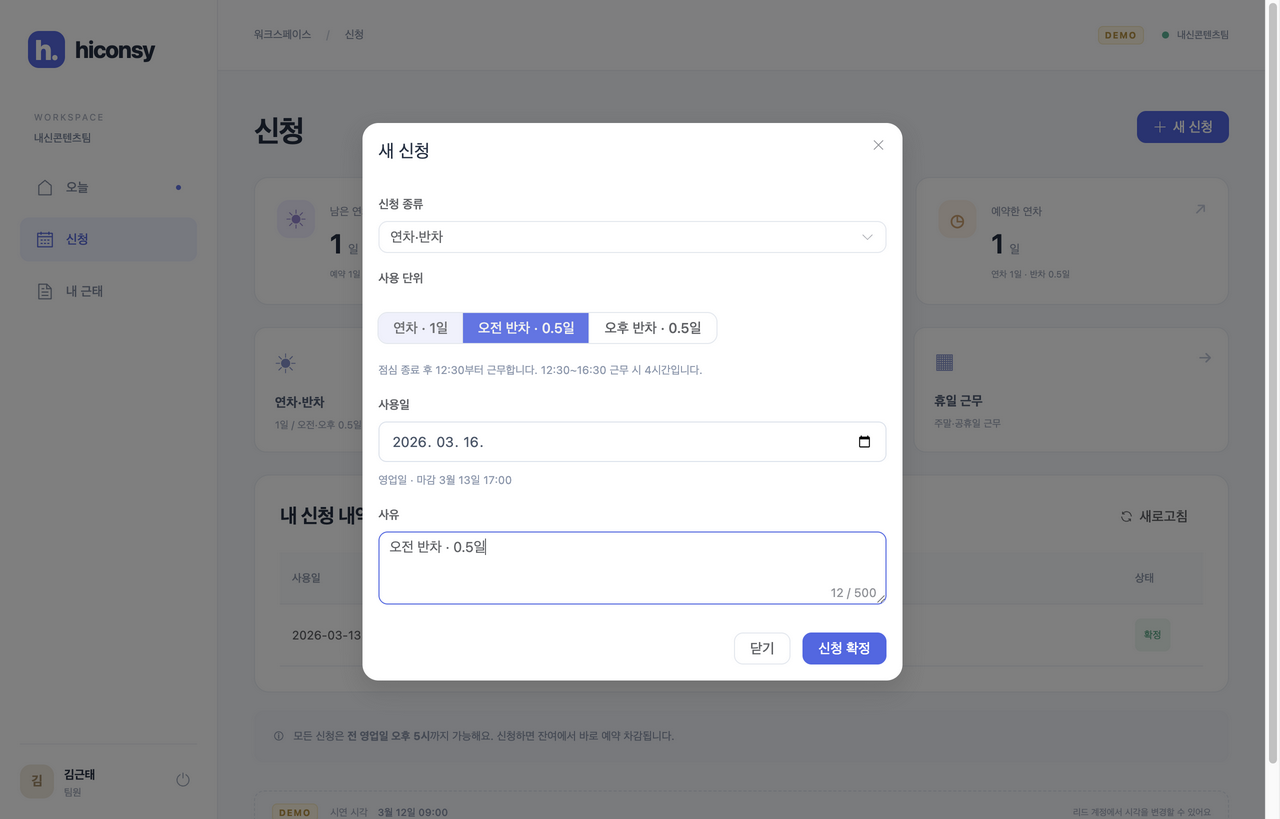
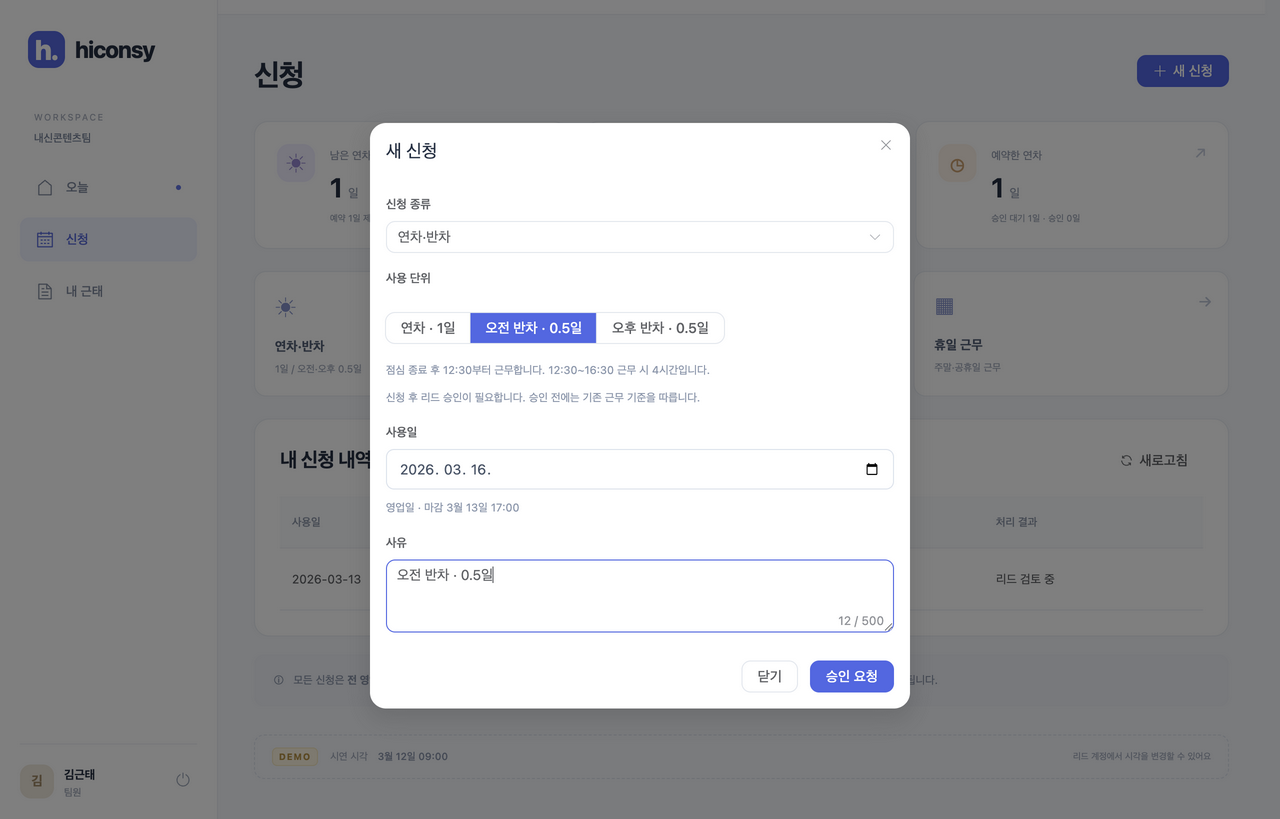
docs(T18): publish approval tests, bug reproductions and verification evidence

diff --git a/docs/testing.md b/docs/testing.md
@@ -1,0 +1,90 @@
+# 기능 테스트와 버그 점검
+
+검증일: **2026-11-03**. 대상: T17 팀원 연차·반차 승인과 T18 버그 수정.
+
+**결과: 서버 자동 테스트 32개 통과, 실제 Electron 시나리오 16개 묶음 통과, 렌더러 오류 0건.** TypeScript/Vue 빌드와 포맷 검사도 통과했다. 검증 환경은 macOS arm64, Node 24.22.2, Electron 45.2.1이다.
+
+이번 UI 검증은 빌드된 Vue 파일을 실제 Electron 창에서 실행했다. 사용 중인 개발 서버와 겹치지 않도록 테스트 API는 3101 포트·임시 SQLite로 분리했다. 기본 창과 최소 860×680 창의 승인 목록·검토 폼을 확인했으며, 주요 버튼 잘림이나 가로 넘침은 발견하지 않았다. 서버/앱 재시작도 시나리오에 포함했다.
+
+리드 승인은 **팀원 연차·오전/오후 반차**에 적용한다. 리드 본인 휴가·재택·휴일 근무는 자동 확정한다.
+
+## 검증 목록
+
+| 구분 | 동작·상태 | 확인 방법 |
+|---|---|---|
+| 팀원 신청 | 연차/오전/오후 반차를 접수하면 승인 대기, 잔여 예약 | API + 실제 Electron 신청 폼·내역 |
+| 리드 승인 | 별도 메뉴에서 미래 신청 조회, 검토·확인·승인 | API + Electron 메뉴·목록·검토창 |
+| 반려 | 빈 사유 오류, 사유 입력, 신청자에게 결과 표시·예약 반환 | API + Electron 검토창·신청 내역 |
+| 재신청 | 반려 기록 보존, 동일 날짜 새 신청·승인 | API + Electron 왕복 흐름 |
+| 잔여 | 승인 시 추가 차감 없음, 반려 한 번 반환, 만료 유지 | API/원장 검증 |
+| 권한/동시성 | 팀원 승인 API 차단, 본인 심사 차단, 두 심사 중 하나만 성공 | API |
+| 근태 연결 | 대기/반려는 휴가 적용 안 함, 승인된 반차 점심 경계 적용 | API + 오늘 화면 |
+| 예외 | 과거 사용일·이미 출근한 날 승인 차단, 반려로 정리 가능 | API + 검토창 안내 |
+| 기존 기록 | 이전 DB 신청은 승인 상태로 이관, 기록·원장 참조 보존 | 마이그레이션 테스트 |
+| 사용성 | 최소 창, 상태 식별, 필터·빈 목록·닫기·취소·오류 | Electron 기능·스크린샷 확인 |
+| 회귀 | 로그인·출퇴근·보정·팀·시연·서버/앱 재시작 | 기존 API 및 Electron 시나리오 |
+
+## 실행 명령
+
+Node 24 환경에서 실행한다. UI 테스트는 3000 포트가 비어 있어야 하며 임시 SQLite를 사용한다.
+
+```sh
+npm test
+npm run build
+npm run format:check
+npm run test:ui
+```
+
+Node 버전이 다르면 각 명령 앞에 `npx --yes --package=node@24 --package=npm@10.9.4 --`를 붙인다.
+
+## 자동 검사 결과
+
+| 검사 | 결과 | 근거 |
+|---|---|---|
+| 서버 규칙·HTTP·DB | 32/32 통과 | `src/server/tests/*.test.ts` |
+| 승인 전용 회귀 | 8/8 통과, 위 32개에 포함 | `approvals.test.ts`: 상태·원장·권한·동시 심사·재신청·만료·재시작 |
+| 반차 회귀 | 6/6 통과, 위 32개에 포함 | `half-day.test.ts`: 0.5일·점심 경계·지각/보정·기존 DB 이관 |
+| Vue/서버 타입 검사·빌드 | 통과 | `npm run build` |
+| 포맷 검사 | 통과 | `npm run format:check` |
+| macOS 패키지 생성 | 통과 | `npm run make`로 최신 ZIP 재생성. 이번 변경의 UI 검증은 아래 Electron 실행 결과 기준 |
+| 실제 Electron UI | 16개 묶음 통과, 페이지 오류 0 | [실행 결과 JSON](test-results/ui.json), `scripts/ui-smoke.mjs` |
+
+권한·동시성·만료는 HTTP/DB 테스트로 확인했다. UI의 네트워크 오류는 요청 차단으로 재현했고, 서버 종료·재시작 시나리오는 실제 NestJS 종료와 같은 SQLite 파일로의 재기동을 사용했다. 테스트 종료 시 임시 DB와 테스트 앱을 정리한다.
+
+## 발견한 문제와 수정
+
+| ID | 확인 방법 / 문제 | 수정 | 확인 결과 |
+|---|---|---|---|
+| B01 | Electron 재현: 오늘 출근해 근무 중인데 내 근태에 ‘퇴근 미기록’ 표시 | 오늘 열린 근태는 ‘근무 중’, 이전 날짜만 ‘퇴근 미기록’으로 구분 | 출근 후 내 근태 행에서 정상 표시 확인 |
+| B02 | Electron 재현: 신청 기한 조회 중 날짜를 지우면 로딩 문구가 계속 남음 | 날짜를 비울 때 로딩 해제, 이전 조회 결과 무시 | 지연 응답 중 날짜 삭제 후 로딩 해제 확인 |
+| B03 | Electron 재현: 연결 오류에서 ‘로그인으로’를 눌러도 이전 세션 토큰이 저장소에 남음 | 세션 초기화 시 토큰 제거, 초기 로그인 복원 완료 때 경로 권한 재검사 | 로그인 이동·네트워크 복구·새로고침 후 로그인 화면 유지 |
+| B04 | 코드 점검: 오전/오후 반차에도 07시·10시·16시 일반 근무 안내 | 승인된 근무 종류에 맞춰 안내 분기 | 오전 12:30 출근, 오후 11:30 퇴근 안내 확인 |
+| B05 | 코드 점검: 팀 날짜 조회의 이전 응답이 최신 결과를 덮을 수 있음 | 마지막 요청에 해당하는 응답만 반영 | 13일 요청을 지연시키고 12일 선택 후 응답 순서를 뒤집어도 12일 유지 |
+
+추가 보완: 휴가 예약·반려 반환을 원장에 구분 표시하고, 승인 상태 열을 내 신청 표 앞쪽에 배치했다. 승인 검토창은 최소 창에서 하단 버튼이 보이도록 가운데 정렬한다.
+
+## 승인·반려 수동 재현
+
+시연 DB를 초기화하려면 실행 중인 앱과 서버를 먼저 종료한 뒤 `npm run demo:reset`, `npm run dev`를 실행한다. 아래 초기 시각은 2026-03-12 09:00이다.
+
+1. `kim` / `demo1234`로 로그인한다. 연차 잔여 2일을 확인한다.
+2. 신청에서 3월 13일 연차 1일, 3월 16일 오전 반차, 3월 17일 오후 반차를 **승인 요청**한다. 모두 승인 대기, 신청 가능 잔여 0일이 된다.
+3. 로그아웃 후 `lead`로 로그인하고 **휴가 승인** 메뉴를 연다. 날짜를 따로 고르지 않아도 대기 3건이 보인다.
+4. 13일과 17일 신청을 검토·승인한다. 16일은 반려를 누르면 빈 사유 오류가 나오며, 사유를 입력하고 반려하면 완료된다.
+5. `kim`으로 돌아가면 승인 2건·반려 1건과 처리 사유, 반환된 잔여 0.5일이 보인다. 16일 오전 반차를 다시 신청하면 과거 반려 기록과 새 대기 기록이 모두 남는다.
+6. 리드가 새 신청을 승인한다. 승인된 일정은 팀 보드와 오늘 화면에 적용된다.
+7. 리드 시각을 3월 16일 12:30으로 변경한다. 김근태는 오전 반차 안내를 보고 출근할 수 있다. 16:30 퇴근이면 정상 4시간이다.
+
+승인 전 출근은 일반 근무로 처리된다. 이미 출근한 날에는 이후 휴가 승인을 막는다. 사용일이 지난 대기 신청은 승인할 수 없고 리드가 반려해 예약을 해제한다.
+
+## 화면 증거
+
+[리드 승인 목록](screenshots/approvals.png) · [최소 창의 승인 폼](screenshots/approval-minimum.png) · [팀원 처리 결과](screenshots/requests-reviewed.png)
+
+## 범위와 한계
+
+- 공휴일은 2026년, 단일 서버 프로세스, 같은 날 출퇴근을 지원한다.
+- 취소·수정, 재택/휴일 승인, 다중 리드 결재 단계는 이번 범위에 포함하지 않는다.
+- 기존 확정 신청은 승인 상태로 이관한다. 과거 근무시간·차감 기록을 다시 계산하지 않는다.
+- Windows/Linux의 데스크톱 UI, 배포 서명·공증은 검증하지 않았다. 기존 T13의 패키지 실행 결과와 이번 빌드된 렌더러의 Electron 검증을 구분한다.
+- GitHub CI는 서버 테스트·포맷·빌드를 실행한다. macOS Electron 화면 검증 결과는 위 JSON과 캡처를 참고한다.

diff --git a/README.md b/README.md
@@ -74,6 +74,8 @@ npm run dev
 
 승인 전에는 기존 근무 기준을 따릅니다. 이미 출근한 날이나 지난 날짜는 승인할 수 없으며 반려로 정리할 수 있습니다. 반환한 휴일 보상의 원래 만료일은 유지됩니다.
 
+[승인 목록 화면](docs/screenshots/approvals.png) · [팀원 처리 결과](docs/screenshots/requests-reviewed.png)
+
 리드 1명인 샘플 조직이므로 **리드 본인 휴가와 재택·휴일 근무 신청은 자동 확정**합니다. 이전 버전에서 확정된 신청도 승인 상태로 보존합니다.
 
 ## 연차와 반차
@@ -168,7 +170,7 @@ npm run format:check
 npm run test:ui          # 실제 Electron 시나리오, 3000 포트 비어 있어야 함
 ```
 
-UI 테스트는 임시 SQLite DB로 실행하고 종료 시 삭제합니다. 결과와 화면 캡처는 `artifacts/ui`에 남습니다. [검증 기록](docs/qa.md)을 확인하세요.
+UI 테스트는 임시 SQLite DB로 실행하고 종료 시 삭제합니다. 결과와 화면 캡처는 `artifacts/ui`에 남습니다. **[기능 테스트·버그 수정 결과](docs/testing.md)**에서 승인/반려 재현 절차, 서버 32개·Electron 16개 검증 결과를 확인하세요. 이전 검증 기록은 [QA 기록](docs/qa.md)에 남아 있습니다.
 
 ## 패키징
 

diff --git a/docs/qa.md b/docs/qa.md
@@ -51,4 +51,8 @@
 | FR-DSH-01 | 오늘·리드 팀 보드/신청/미기록 | team.test.ts: 역할·데이터 일치, Electron 상세·최소 창 |
 | FR-LOG-01 | 근태 상세 이력·DB audit_logs | audit.test.ts: 성공·실패·민감정보 제외 |
 
-REQ/BAL의 별도 OFF는 사용자 지시로 통합 연차와 오전/오후 반차로 변경했다. 승인·PDF·월 정산(선택 FR)은 제외한다. UI 클릭 중 서버 요청이 발생하는 업무 동작을 이력 대상으로 삼는다.
+REQ/BAL의 별도 OFF는 사용자 지시로 통합 연차와 오전/오후 반차로 변경했다. T17에서 팀원 휴가 승인·반려(FR-REQ-02)를 추가했다. PDF·월 정산은 제외한다. UI 클릭 중 서버 요청이 발생하는 업무 동작을 이력 대상으로 삼는다.
+
+## T17/T18 최신 결과
+
+승인·반려·반려 후 재신청, 잔여 반환, UI 상태 버그를 검증했다. 서버 32개·실제 Electron 16개 묶음 통과. [최신 테스트 문서](testing.md)에 재현 방법·수정 결과·화면·범위를 정리했다.

diff --git a/docs/tasks/README.md b/docs/tasks/README.md
@@ -22,6 +22,7 @@
 | [T14](T14.md) 제출 문서 | T13 | README, docs/, .github/workflows/, scripts/export-history.mjs | 실행·시연·FR·Git 기록 공개 |
 | [T16](T16.md) 실행 환경 | T13 | scripts/dev.mjs, README | Node 21 오류 안내·Node 24 실행 확인 |
 | [T17](T17.md) 휴가 승인 | T15/T16 | 서버 승인·원장·DB, 신청/승인 UI | 승인 대기·승인·반려·잔여 반환·재신청 |
+| [T18](T18.md) 버그 회귀·문서 | T17 | 세션·화면 상태, UI 테스트, docs/testing.md | 오류 재현·수정, 서버 32개·Electron 16개, README 연결 |
 
 파일 표의 `pages/`와 `components/`는 `src/ui/` 아래다. 정확한 변경 목록은 [Git 이력](../history.md)과 커밋 diff를 확인한다. T06/T07은 오늘 화면에 필요한 잔여·신청 계약을 먼저 연결하기 위해 T04보다 먼저 구현했다. 요청 변경 T15는 T12 이후, 패키징 전에 진행했다.
 
